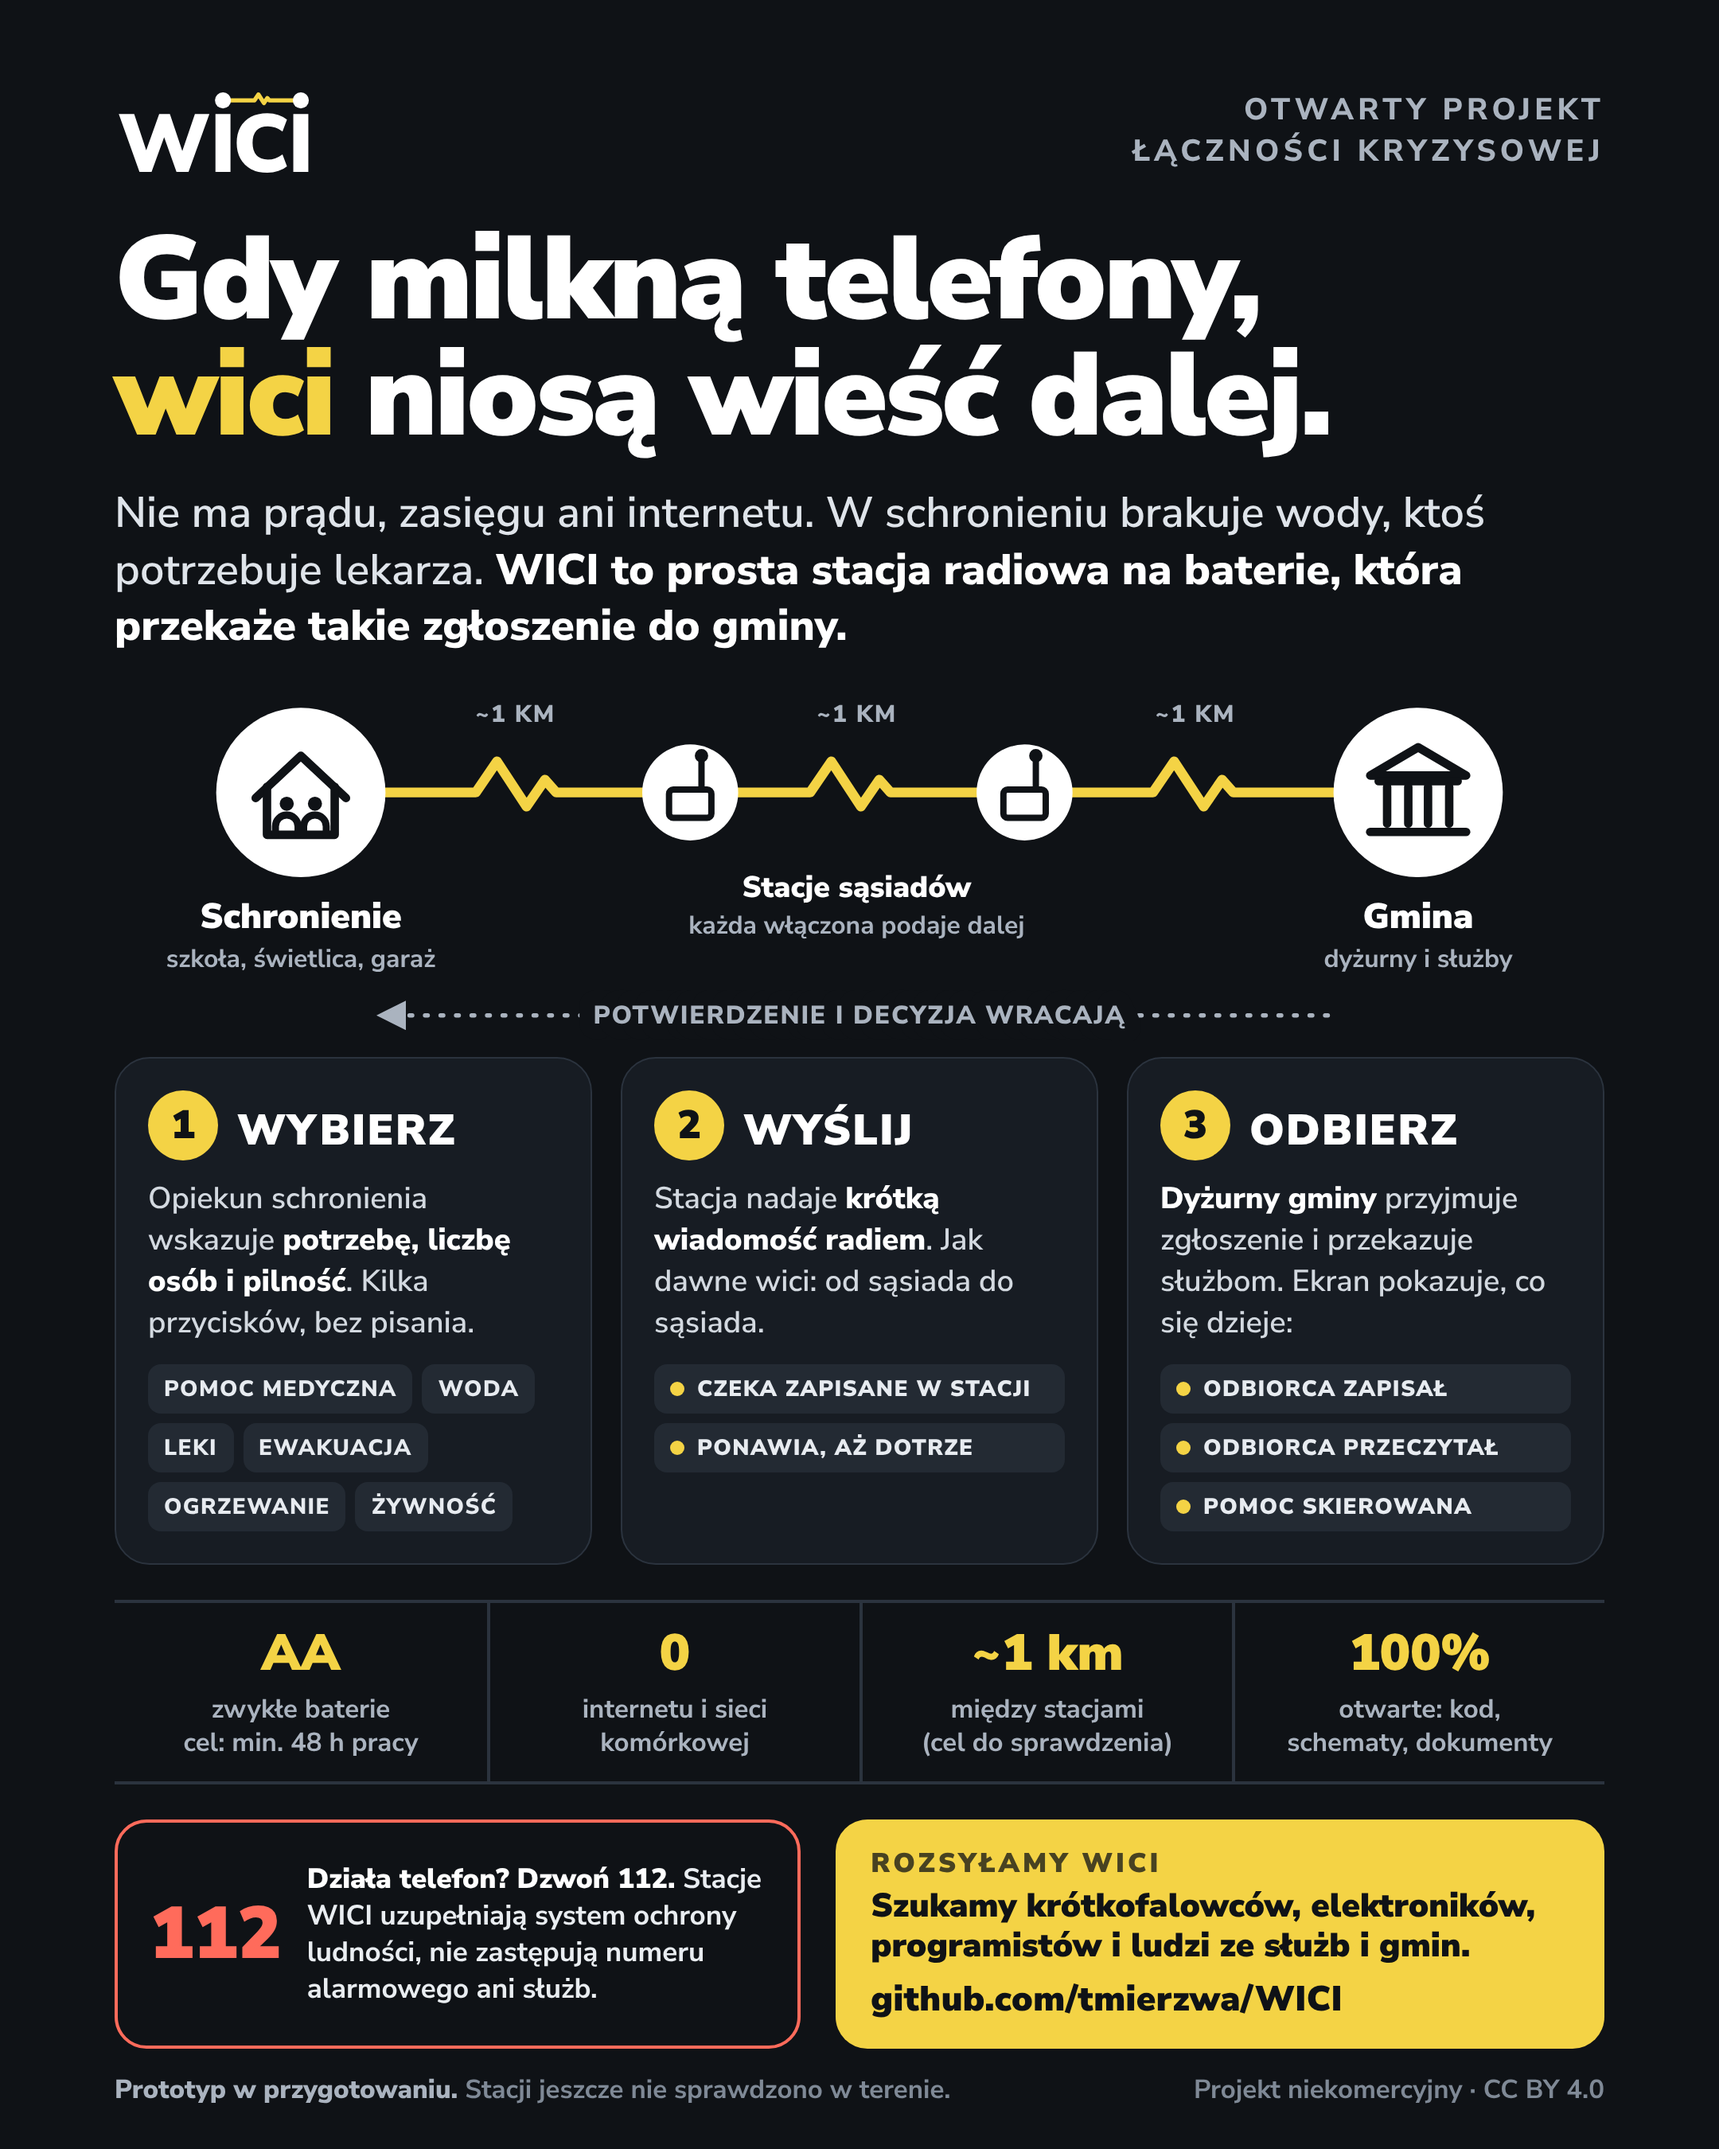
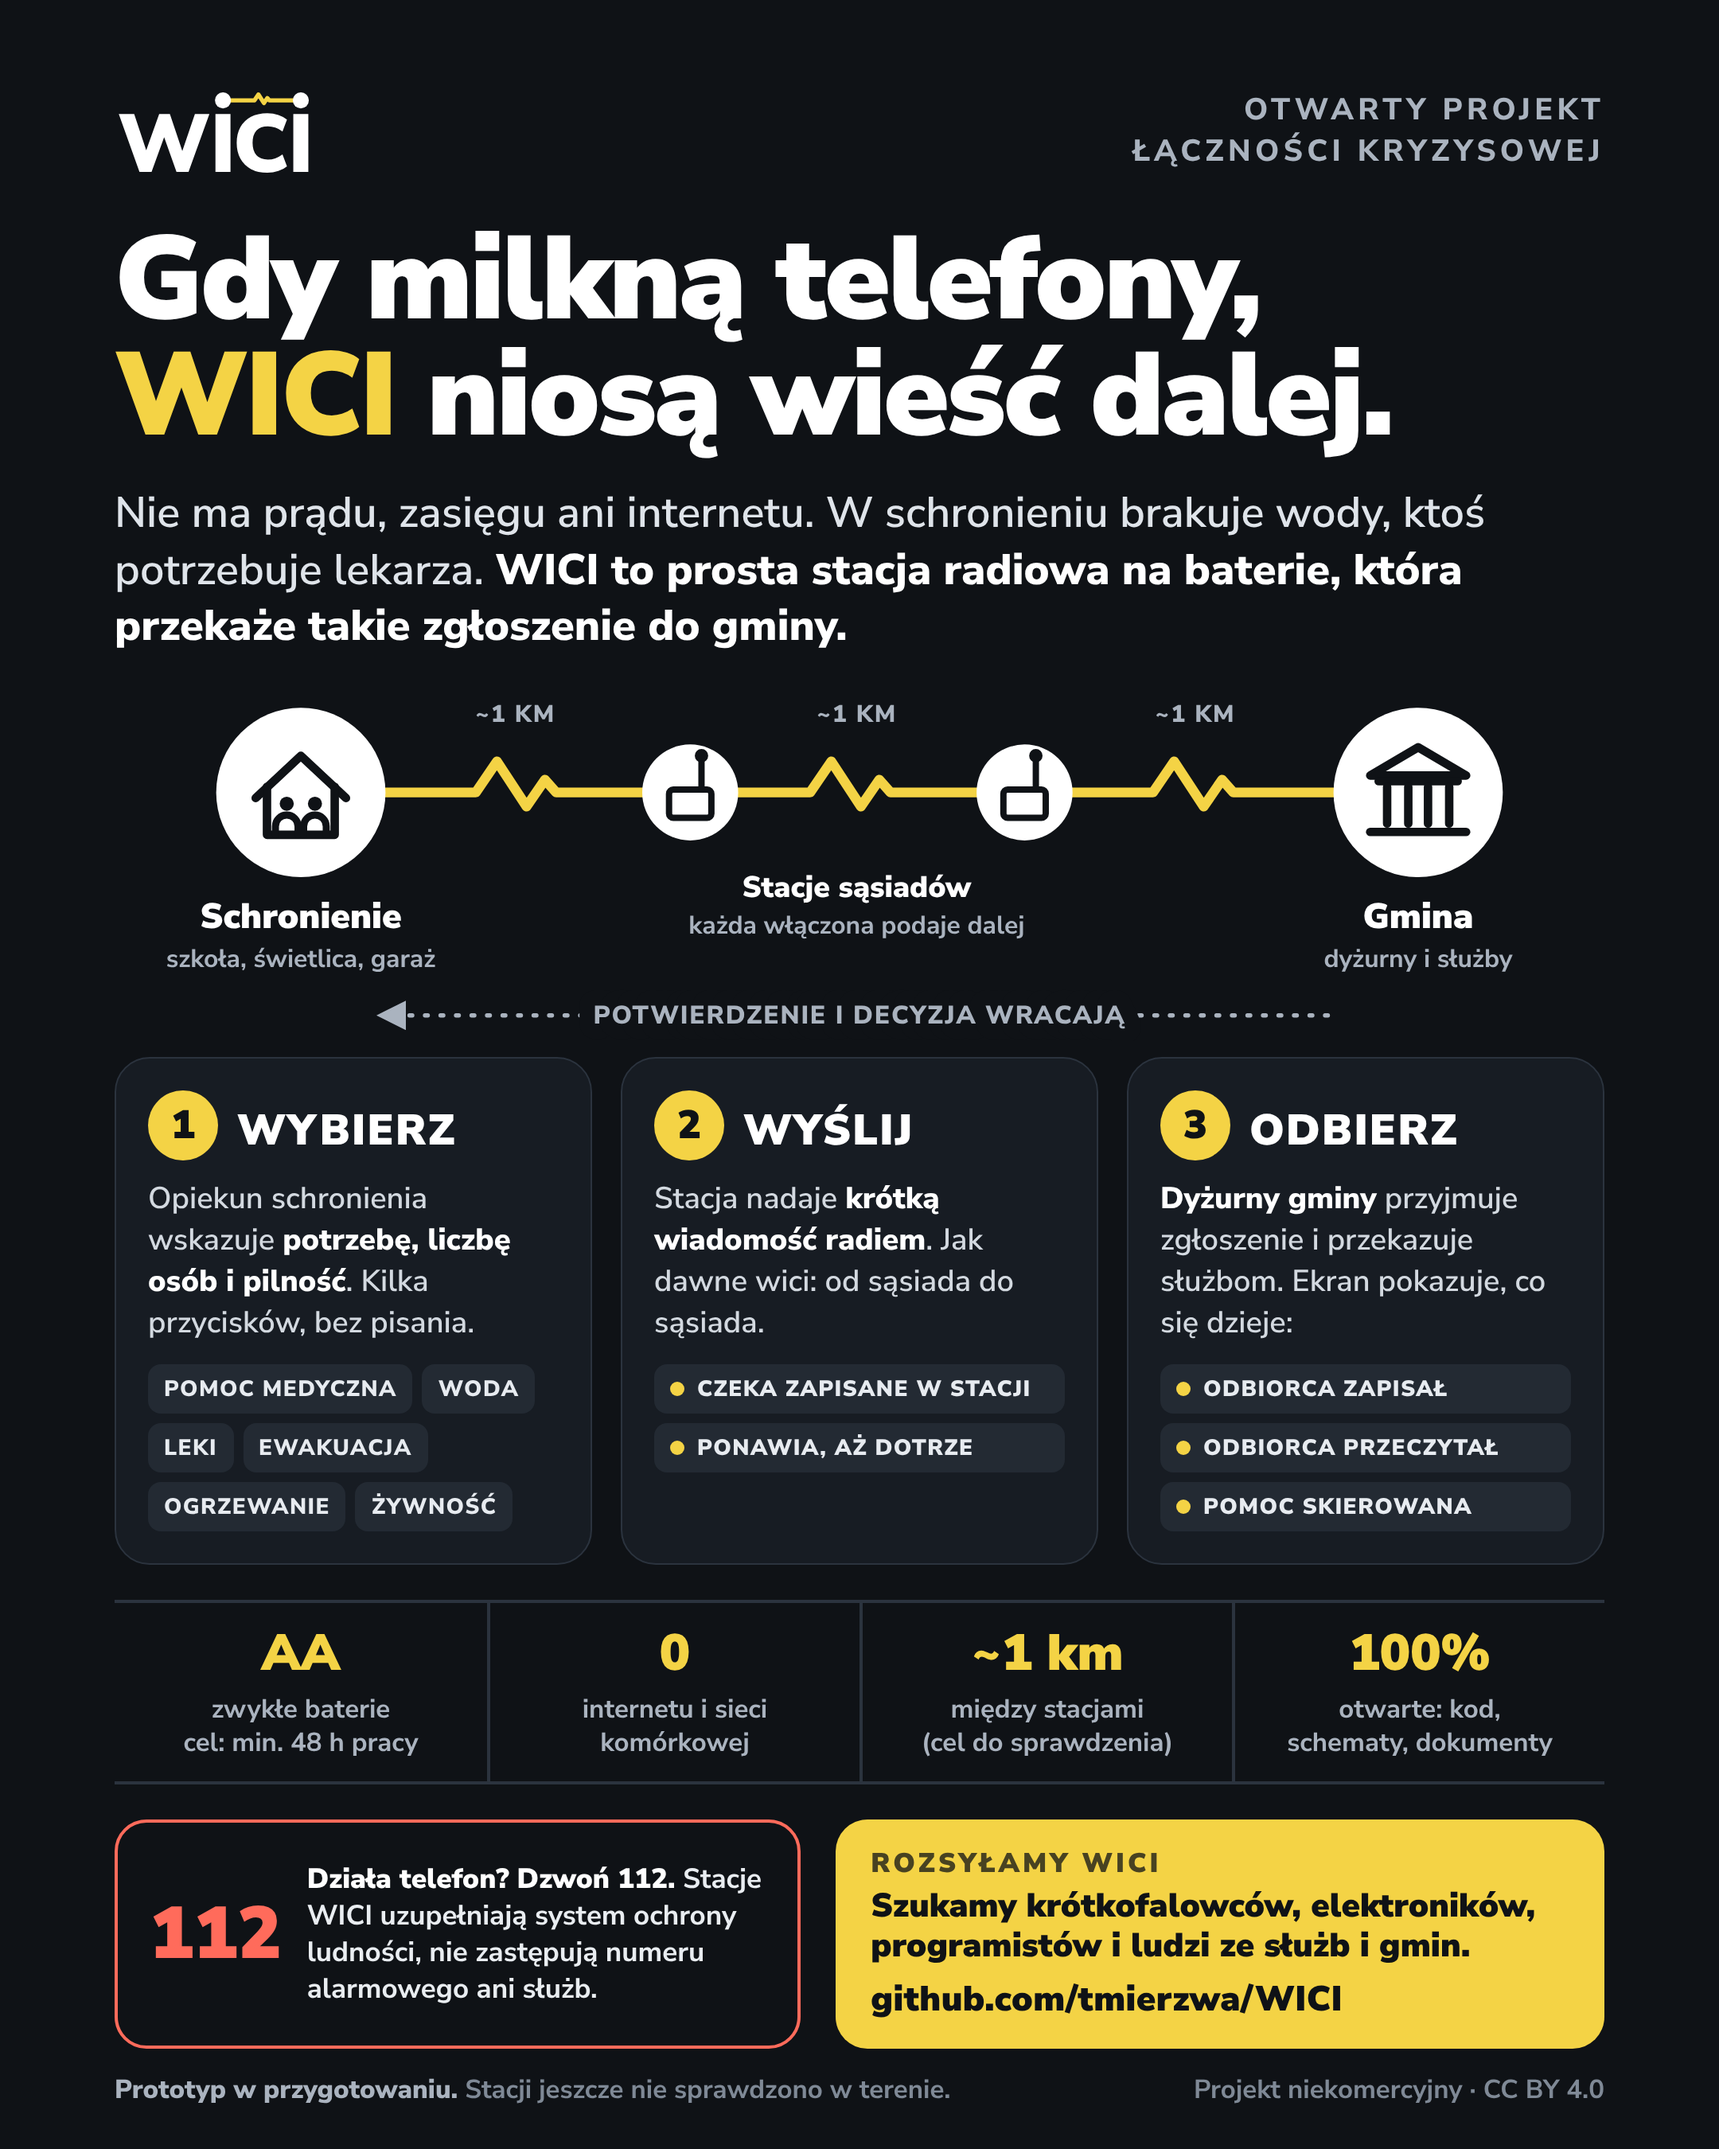
Infographic: spell the name WICI
Claude-Session: https://claude.ai/code/session_01WCkYsu6pvnXAe7WXZ7mzF5

Changed region(s): [[0.062, 0.1556, 0.8065, 0.2178]]

diff --git a/media/infografika/infografika.html b/media/infografika/infografika.html
@@ -141,7 +141,7 @@ h1 em{font-style:normal;color:var(--sig)}
 const T={
 pl:{
  tag:"Otwarty projekt<br>łączności kryzysowej",
- h1:"Gdy milkną telefony,<br><em>wici</em> niosą wieść dalej.",
+ h1:"Gdy milkną telefony,<br><em>WICI</em> niosą wieść dalej.",
  lead:"Nie ma prądu, zasięgu ani internetu. W schronieniu brakuje wody, ktoś potrzebuje lekarza. <b>WICI to prosta stacja radiowa na baterie, która przekaże takie zgłoszenie do gminy.</b>",
  hop:"~1 KM",
  n1:"Schronienie", n1s:"szkoła, świetlica, garaż",
@@ -156,7 +156,7 @@ pl:{
  status:["Odbiorca zapisał","Odbiorca przeczytał","Pomoc skierowana"],
  facts:[["AA","zwykłe baterie<br>cel: min. 48 h pracy"],["0","internetu i sieci<br>komórkowej"],["~1 km","między stacjami<br>(cel do sprawdzenia)"],["100%","otwarte: kod,<br>schematy, dokumenty"]],
  warn:"<b>Działa telefon? Dzwoń 112.</b> Stacje WICI uzupełniają system ochrony ludności, nie zastępują numeru alarmowego ani służb.",
- ctak:"Rozsyłamy wici",
+ ctak:"Rozsyłamy WICI",
  ctah:"Szukamy krótkofalowców, elektroników, programistów i ludzi ze służb i gmin.",
  foot1:"<b>Prototyp w przygotowaniu.</b> Stacji jeszcze nie sprawdzono w terenie.",
  foot2:"Projekt niekomercyjny · CC BY 4.0"
